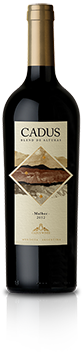
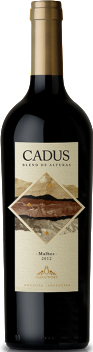
acomodar fotos de vinos

diff --git a/index.html b/index.html
@@ -144,32 +144,38 @@
                 <br>
                 <div id="demo01" href="#animatedModal" class="col-md-2 col-sm-4 col-xs-6 portfolio-item">
                     <a href="#" class="portfolio-link" data-toggle="modal">
-                        <img src="images/bottles/chicas/single.png" class="img-responsive" alt="Cadus Single" title="Cadus botellas" style="margin:auto; margin-top:20px;">
+                        <img src="images/bottles/chicas/single.png" class="img-responsive" alt="Cadus Single" title="Cadus botellas" style="margin:auto; margin-top:20px; margin-bottom:10px; height:330px;">
+                        <img src="images/iconos-03.png" style="height:40px; margin-left:75px;">
                     </a>
                 </div>
                 <div class="col-md-2 col-sm-4 col-xs-6 portfolio-item">
                     <a href="#portfolioModal2" class="portfolio-link" data-toggle="modal">
-                        <img src="images/bottles/chicas/cadus-single.png" class="img-responsive" alt="Cadus Single" title="Cadus botellas" style="margin:auto; margin-top:20px;">
+                        <img src="images/bottles/chicas/cadus-single.png" class="img-responsive" alt="Cadus Single" title="Cadus botellas" style="margin:auto; margin-top:20px; margin-bottom:10px; height:330px;">
+                        <img src="images/iconos-03.png" style="height:40px; margin-left:75px;">
                     </a>
                 </div>
                 <div class="col-md-2 col-sm-4 col-xs-6 portfolio-item">
                     <a href="#portfolioModal3" class="portfolio-link" data-toggle="modal">
-                        <img src="images/bottles/chicas/blend-malbec.png" class="img-responsive" alt="Cadus Blend Malbec" title="Cadus botellas" style="margin:auto; margin-top:20px;">
+                        <img src="images/bottles/chicas/blend-malbec.png" class="img-responsive" alt="Cadus Blend Malbec" title="Cadus botellas" style="margin:auto; margin-top:20px; margin-bottom:10px; height:330px;">
+                        <img src="images/iconos-03.png" style="height:40px; margin-left:75px;">
                     </a>
                 </div>
                 <div class="col-md-2 col-sm-4 col-xs-6 portfolio-item">
                     <a href="#portfolioModal4" class="portfolio-link" data-toggle="modal">
-                        <img src="images/bottles/chicas/gualtallary.png" class="img-responsive" alt="Cadus Gualtallary" title="Cadus botellas" style="margin:auto; margin-top:20px;">
+                        <img src="images/bottles/chicas/gualtallary.png" class="img-responsive" alt="Cadus Gualtallary" title="Cadus botellas" style="margin:auto; margin-top:20px; margin-bottom:10px; height:330px;">
+                        <img src="images/iconos-03.png" style="height:40px; margin-left:75px;">
                     </a>
                 </div>
                 <div class="col-md-2 col-sm-4 col-xs-6 portfolio-item">
                     <a href="#portfolioModal5" class="portfolio-link" data-toggle="modal">
-                        <img src="images/bottles/chicas/agrelo.png" class="img-responsive" alt="Cadus Agrelo" title="Cadus botellas" style="margin:auto; margin-top:20px;">
+                        <img src="images/bottles/chicas/agrelo.png" class="img-responsive" alt="Cadus Agrelo" title="Cadus botellas" style="margin:auto; margin-top:20px; margin-bottom:10px; height:330px;">
+                        <img src="images/iconos-03.png" style="height:40px; margin-left:75px;">
                     </a>
                 </div>
                 <div class="col-md-2 col-sm-4 col-xs-6 portfolio-item">
                     <a href="#portfolioModal6" class="portfolio-link" data-toggle="modal">
-                        <img src="images/bottles/chicas/chardonay.png" class="img-responsive" alt="Cadus Chardonay" title="Cadus botellas" style="margin:auto; margin-top:20px;">
+                        <img src="images/bottles/chicas/chardonnay.png" class="img-responsive" alt="Cadus Chardonay" title="Cadus botellas" style="margin:auto; margin-top:20px; margin-bottom:10px; height:330px;">     
+                        <img src="images/iconos-03.png" style="height:40px; margin-left:75px;">
                     </a>
                 </div>
                 <!---->
